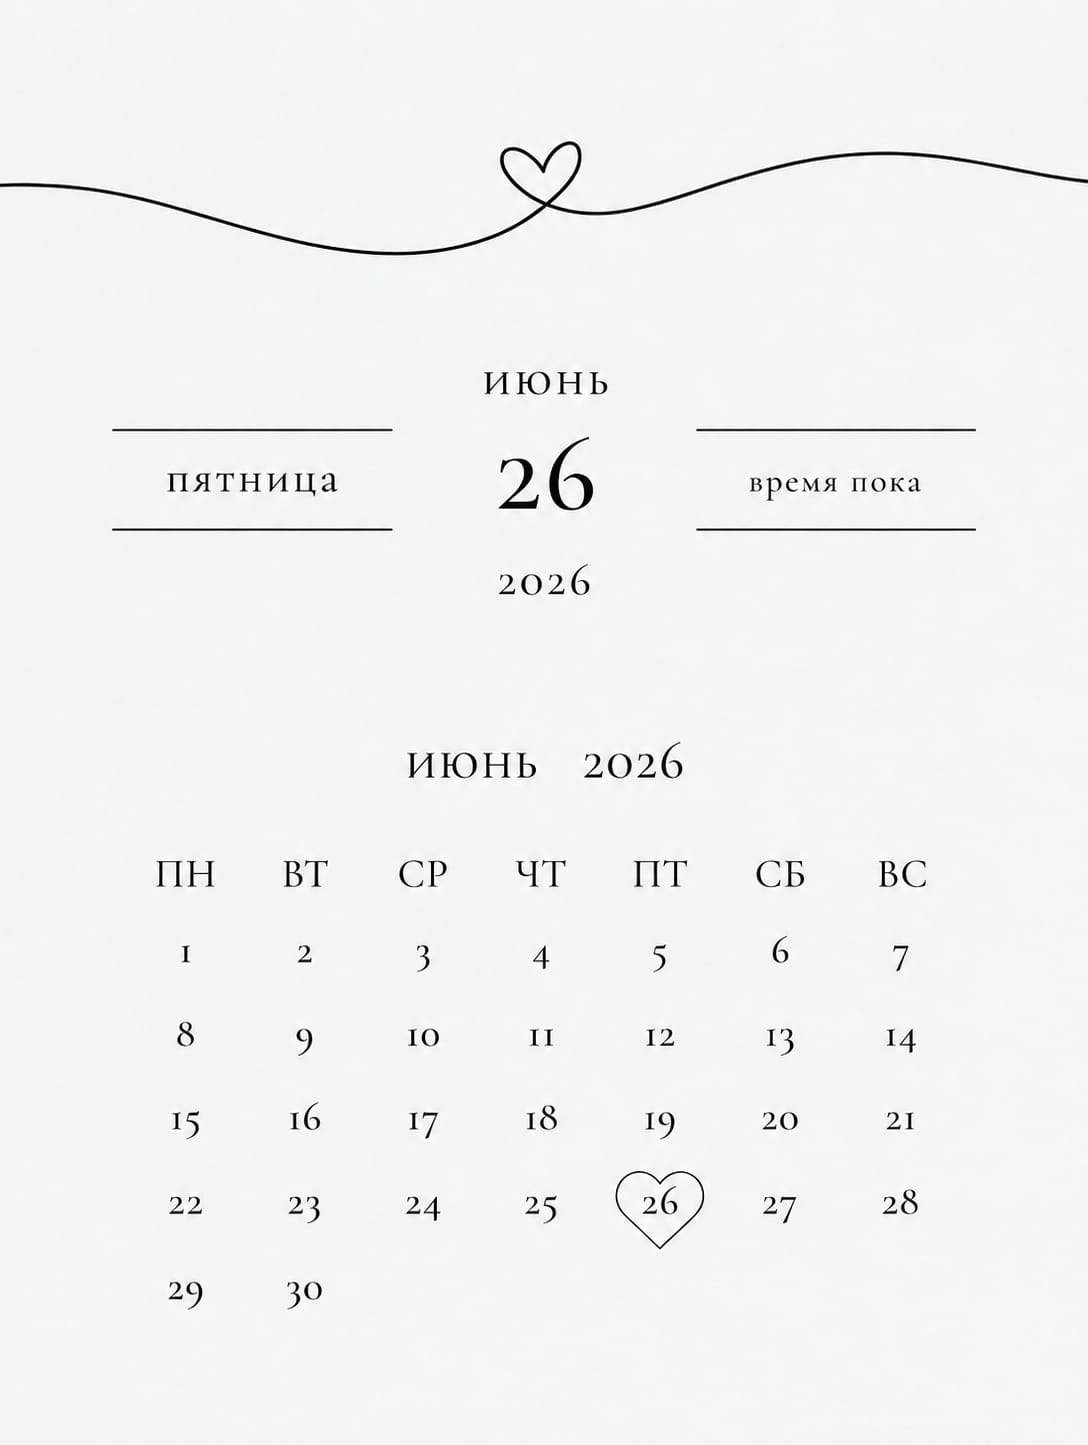
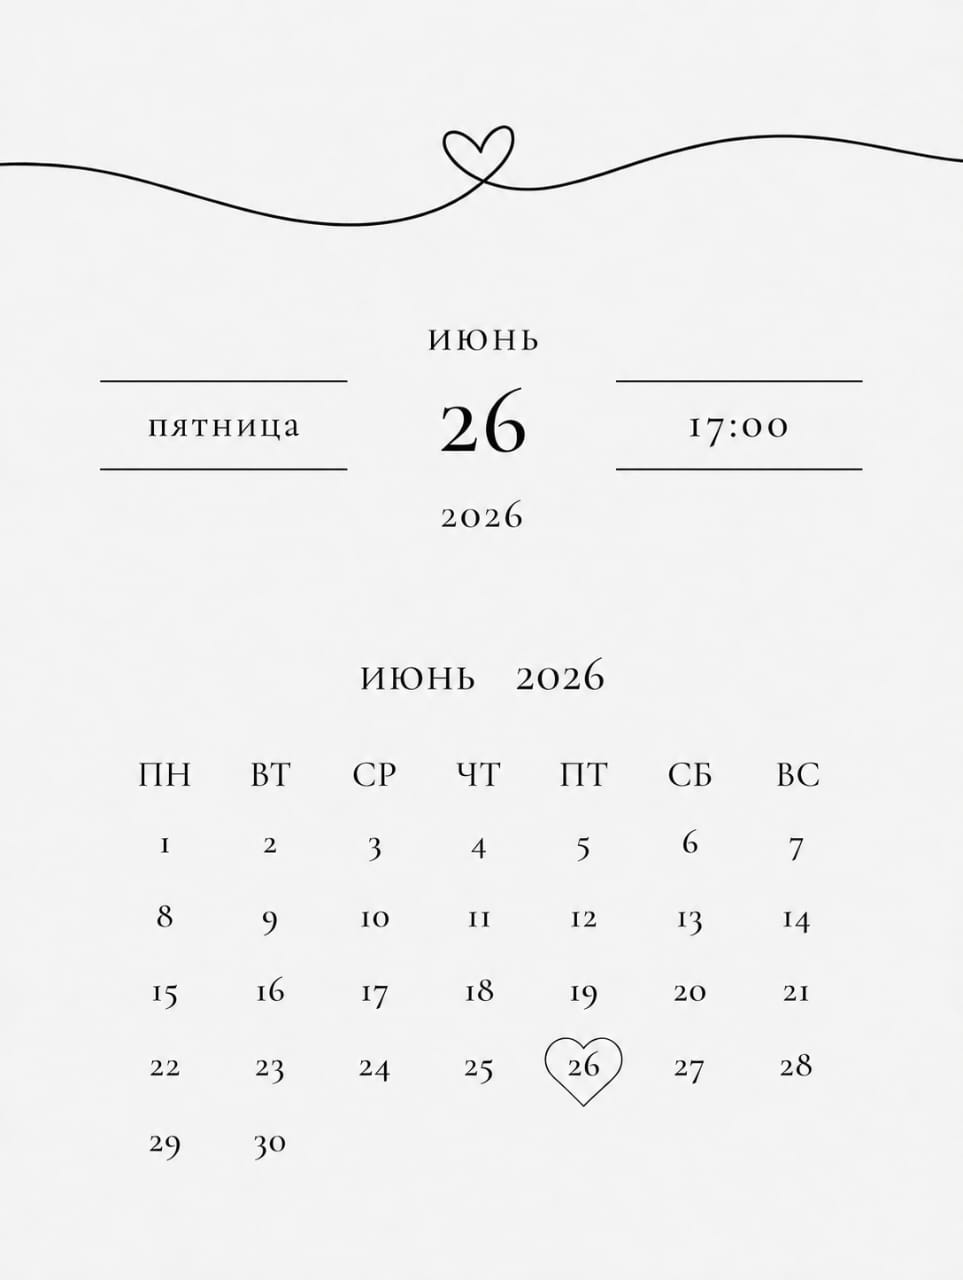
w

diff --git a/src/App.js b/src/App.js
@@ -4,11 +4,14 @@ import { motion } from "framer-motion";
 import startImg from "./start.jpeg"
 import dateImg from "./date.jpeg"
 import timerImg from "./timer.jpeg"
+import logo from "./logo.png"
 
 
 
 function App() {
-  const targetDate = new Date("2026-06-26T18:00:00"); // 👈 твоя дата события
+  const targetDate = new Date("2026-06-26T17:00:00");
+
+  const isMobile = window.innerWidth <= 768;
 
   const calculateTimeLeft = () => {
     const now = new Date();
@@ -87,6 +90,8 @@ function App() {
   const [status, setStatus] = useState("");
   const [loading, setLoading] = useState(false);
 
+  const [side, setSide] = useState("");
+
   const handleSubmit = async (e) => {
     e.preventDefault();
 
@@ -100,7 +105,11 @@ function App() {
         alert("Выберите 'Приду' если придёте или 'Не приду' если нет")
         return
       } 
-      await fetch("https://script.google.com/macros/s/AKfycbyzWWwEoA9QIFb8cbp64Kx-Ox8Le6jJWy7Y9VwtCDyFMt4enY74STcrDWjAFTlsfC23/exec", {
+      if (side === "") {
+        alert("Выберите с чьей вы стороны, жениха или невесты");
+        return;
+      }
+      await fetch("https://script.google.com/macros/s/AKfycbyD892op0nbwMuOEN6fjihdQ5L52YV8c_0tZca365YNg8DD6Kjl_p3vJ0AdPzpl93nh/exec", {
         method: "POST",
         headers: {
           "Content-Type": "text/plain;charset=utf-8",
@@ -108,6 +117,7 @@ function App() {
         body: JSON.stringify({
           name,
           status,
+          side
         }),
       });
 
@@ -121,6 +131,27 @@ function App() {
       setLoading(false);
     }
   };
+
+  if (!isMobile) {
+    return (
+      <div className="
+        h-screen
+        flex
+        flex-col
+        items-center
+        justify-center
+        text-center
+        text-3xl
+        p-10
+      ">
+        Данная страница доступна только на мобильных утройствах!
+        <div>
+          📱
+        </div>
+      </div>
+    );
+  }
+
 
   return (
     <div className="overflow-x-hidden">
@@ -279,6 +310,25 @@ function App() {
           >
                   Кульджинский тракт 98
           </motion.div>
+          <a
+  href="https://2gis.kz/almaty/geo/70000001033473247/77.052419,43.342814"
+  target="_blank"
+  rel="noopener noreferrer"
+  className="
+    inline-flex
+    items-center
+    justify-center
+    px-6
+    py-4
+    rounded-2xl
+    border-2
+    border-black
+    text-black
+    text-xl
+  "
+>
+  Открыть в <img className="mx-3 w-32" src={logo}/> 
+</a>
     </div>
   </div>
 
@@ -407,6 +457,36 @@ function App() {
 
         <span>Не приду</span>
       </label>
+      </div>
+
+      <div className="w-full text-2xl flex gap-4">
+
+        <label className="flex items-center gap-3 cursor-pointer">
+          <input
+            type="radio"
+            name="side"
+            value="Жених"
+            checked={side === "Жених"}
+            onChange={(e) => setSide(e.target.value)}
+            className="w-5 h-5"
+          />
+
+          <span>Со стороны жениха</span>
+        </label>
+
+        <label className="flex items-center gap-3 cursor-pointer">
+          <input
+            type="radio"
+            name="side"
+            value="Невеста"
+            checked={side === "Невеста"}
+            onChange={(e) => setSide(e.target.value)}
+            className="w-5 h-5"
+          />
+
+          <span>Со стороны невесты</span>
+        </label>
+
       </div>
       
       <div>
